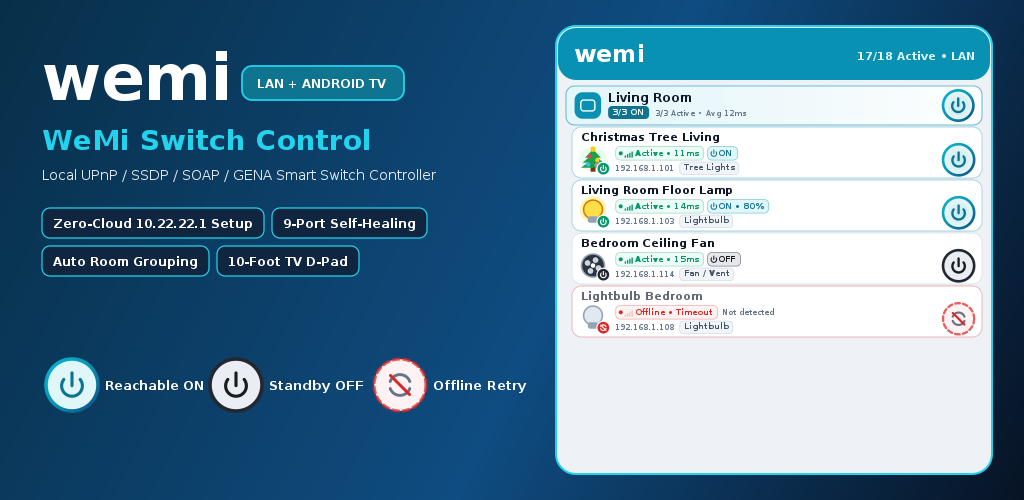
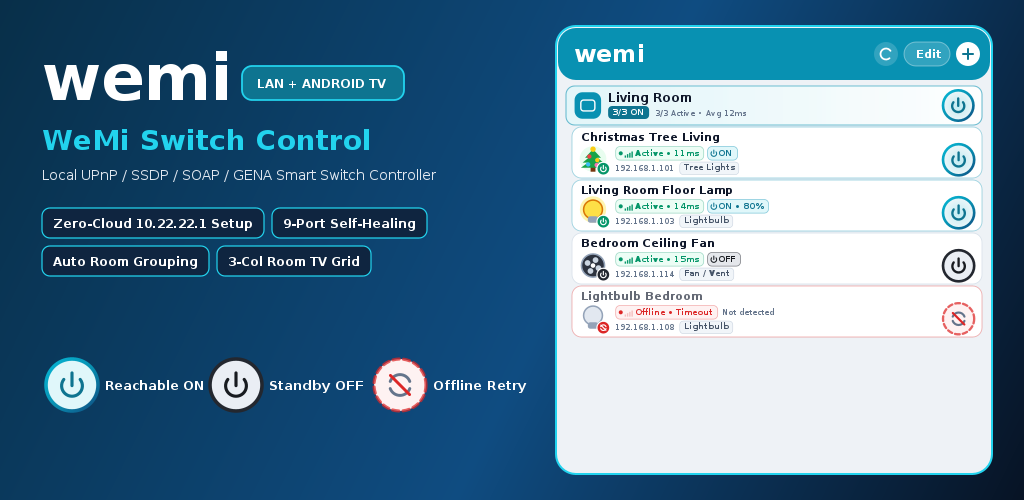
feat(ui): rename dimmer adjust mode to DIM -/+
Update UX design documentation to reflect the new DIM -/+ terminology for Android TV dimmer adjustment.

Changed region(s): [[0.8438, 0.06, 0.9688, 0.15], [0.2188, 0.48, 0.375, 0.57]]

diff --git a/app/src/main/java/org/suppressingfire/wemi/ui/components/TvCardsAndScenes.kt b/app/src/main/java/org/suppressingfire/wemi/ui/components/TvCardsAndScenes.kt
@@ -237,7 +237,7 @@ internal fun TvDeviceCard(
                         color = TvDimmerGold
                     ) {
                         Text(
-                            text = "DIM ◀/▶",
+                            text = "DIM -/+",
                             color = TvDeepBackground,
                             fontFamily = FontFamily.SansSerif,
                             fontWeight = FontWeight.ExtraBold,
@@ -479,7 +479,7 @@ internal fun TvDeviceCard(
                         if (isDimmingMode) {
                             Spacer(modifier = Modifier.height(3.dp))
                             Text(
-                                text = "◀ -10%  •  +10% ▶   (OK or Back = Done)",
+                                text = "Left: -10%  •  Right: +10%   (OK or Back = Done)",
                                 color = TvDimmerGold,
                                 fontFamily = FontFamily.SansSerif,
                                 fontWeight = FontWeight.Bold,

diff --git a/app/src/main/java/org/suppressingfire/wemi/ui/components/TvScreen.kt b/app/src/main/java/org/suppressingfire/wemi/ui/components/TvScreen.kt
@@ -258,7 +258,7 @@ fun TvDashboardScreen(
                             )
                             Text(
                                 text = if (isDimmingFocused) {
-                                    "${focusedDevice.name}: ${focusedDevice.brightness}% (◀/▶ Adjust • OK Done)"
+                                    "${focusedDevice.name}: ${focusedDevice.brightness}% (Left/Right Adjust • OK Done)"
                                 } else {
                                     "${focusedDevice.name} • OK Toggle"
                                 },

diff --git a/scripts/GeneratePlayStoreAssets.java b/scripts/GeneratePlayStoreAssets.java
@@ -1131,15 +1131,25 @@ public class GeneratePlayStoreAssets {
 
         // Focused Switch Status Pill
         String focusPillTxt = isDimmerMode
-            ? "Living Room Floor Lamp: 80% (◀/▶ Adjust • OK Done)"
-            : "Christmas Tree Living • OK Toggle";
+            ? "Floor Lamp: 80% (Left/Right Dim)"
+            : (isScenesMode ? "Movie 20% • OK Apply Scene" : "Christmas Tree Living • OK Toggle");
         Color focusPillBg = isDimmerMode ? new Color(0xFB, 0xBF, 0x24) : new Color(0x06, 0xB6, 0xD4, 52);
         Color focusPillBorder = isDimmerMode ? new Color(0xFB, 0xBF, 0x24) : new Color(0x22, 0xD3, 0xEE, 175);
         Color focusPillFg = isDimmerMode ? C_TV_BG_TOP : C_WHITE;
         g.setFont(fUi(11.5 * s, Font.BOLD));
-        int fpW = Math.min((int) (295 * s), g.getFontMetrics().stringWidth(focusPillTxt) + (int) (24 * s));
+        int fpW = Math.min((int) (215 * s), g.getFontMetrics().stringWidth(focusPillTxt) + (int) (22 * s));
         fillRoundRect(g, cx, y, fpW, barH, 9 * s, focusPillBg, focusPillBorder, 1.2 * s);
-        drawFittedString(g, focusPillTxt, cx + 12 * s, y + 24 * s, fpW - 20 * s, 11.5 * s, Font.BOLD, focusPillFg);
+        drawFittedString(g, focusPillTxt, cx + 11 * s, y + 24 * s, fpW - 18 * s, 11.5 * s, Font.BOLD, focusPillFg);
+        cx += fpW + 8 * s;
+
+        if (isDimmerMode) {
+            String doneTxt = "Done Dimming";
+            g.setFont(fUi(11.0 * s, Font.BOLD));
+            int dw = g.getFontMetrics().stringWidth(doneTxt) + (int) (18 * s);
+            fillRoundRect(g, cx, y + 3 * s, dw, barH - 6 * s, 8 * s, new Color(0xFB, 0xBF, 0x24), C_WHITE, 1.2 * s);
+            g.setColor(C_TV_BG_TOP);
+            g.drawString(doneTxt, (int) (cx + 9 * s), (int) (y + 23 * s));
+        }
 
         // Right-aligned Scene Chips + Rescan Button
         String[][] scenes = {
@@ -1167,21 +1177,36 @@ public class GeneratePlayStoreAssets {
         }
         y += (int) (barH + 12 * s);
 
+        int livingLampDim = isScenesMode ? 20 : 80;
+        String livingLampStat = "ON • " + livingLampDim + "% Brightness";
         // 2. Room Section 1: LIVING ROOM (Full-width header + 3 cards across)
         Object[][] livingRoomCards = {
             {"Christmas Tree Living", "Tree Lights", true, true, "ON • Active • 11ms", "192.168.1.101", null, !isDimmerMode && !isScenesMode, false},
-            {"Living Room Floor Lamp", "Lightbulb", true, true, "ON • 80% Brightness", "192.168.1.103", 80, isDimmerMode, isDimmerMode},
+            {"Living Room Floor Lamp", "Lightbulb", true, true, livingLampStat, "192.168.1.103", livingLampDim, isDimmerMode, isDimmerMode},
             {"Christmas Candle", "Lightbulb", true, true, "ON • Active • 13ms", "192.168.1.102", null, false, false}
         };
-        y = drawTvRoomSection(g, padX, y, w - padX * 2, "LIVING ROOM", "3/3 ON", "Dimmers: 80%", livingRoomCards, s);
+        y = drawTvRoomSection(g, padX, y, w - padX * 2, "LIVING ROOM", "3/3 ON", "Dimmers: " + livingLampDim + "%", livingRoomCards, s);
 
-        // 3. Room Section 2: BEDROOM & HALLWAY (Full-width header + 3 cards across)
+        int landingDim = isScenesMode ? 20 : 75;
+        String landingStat = "ON • " + landingDim + "% Brightness";
+        // 3. Room Section 2: BEDROOM & LANDING (Full-width header + 3 cards across)
         Object[][] bedroomCards = {
-            {"Lightbulb Landing", "Lightbulb", true, true, "ON • 75% Brightness", "192.168.1.105", 75, false, false},
+            {"Lightbulb Landing", "Lightbulb", true, true, landingStat, "192.168.1.105", landingDim, false, false},
             {"Bedroom Ceiling Fan", "Fan / Vent", false, true, "OFF • Active • 15ms", "192.168.1.114", null, false, false},
             {"Lightbulb Bedroom", "Lightbulb", false, false, "Disconnected • Press OK to Retry", "192.168.1.108", null, false, false}
         };
-        y = drawTvRoomSection(g, padX, y, w - padX * 2, "BEDROOM & LANDING", "1/3 ON", "Dimmers: 75%", bedroomCards, s);
+        y = drawTvRoomSection(g, padX, y, w - padX * 2, "BEDROOM & LANDING", "1/3 ON", "Dimmers: " + landingDim + "%", bedroomCards, s);
+
+        if (isScenesMode) {
+            String toastTxt = "TV Movie Mode: Dimmed 2 smart bulb(s) to 20%";
+            g.setFont(fUi(12 * s, Font.BOLD));
+            int tw = g.getFontMetrics().stringWidth(toastTxt) + (int) (32 * s);
+            double tx0 = (w - tw) / 2.0;
+            double ty0 = h - 38 * s;
+            fillRoundRect(g, tx0, ty0, tw, 28 * s, 9 * s, new Color(0x0F, 0x25, 0x40, 235), C_TV_CYAN, 1.5 * s);
+            g.setColor(C_TV_CYAN);
+            g.drawString(toastTxt, (int) (tx0 + 16 * s), (int) (ty0 + 19 * s));
+        }
 
         g.dispose();
         return img;
@@ -1257,7 +1282,7 @@ public class GeneratePlayStoreAssets {
             // Top line: Switch Name + Focus / Dimming badge
             double badgeW = 0;
             if (cDimming || cFocused) {
-                String bTxt = cDimming ? "DIM ◀/▶" : "FOCUSED • OK";
+                String bTxt = cDimming ? "DIM -/+" : "FOCUSED • OK";
                 Color bCol = cDimming ? new Color(0xFB, 0xBF, 0x24) : C_TV_CYAN;
                 g.setFont(fUi(9.8 * s, Font.BOLD));
                 badgeW = g.getFontMetrics().stringWidth(bTxt) + 14 * s;
@@ -1321,21 +1346,37 @@ public class GeneratePlayStoreAssets {
                 Color dimBoxBorder = cDimming ? new Color(0xFB, 0xBF, 0x24) : new Color(0x22, 0xD3, 0xEE, 95);
                 fillRoundRect(g, cx0 + 12 * s, boxY, cardW - 24 * s, boxH, 8 * s, dimBoxBg, dimBoxBorder, 1.0 * s);
 
+                // Left '-' circle button + progress bar + '%' + right '+' circle button
+                double btnR = 9.5 * s;
+                double btnCy = boxY + 18 * s;
+                double minusCx = cx0 + 28 * s;
+                double plusCx = cx0 + cardW - 28 * s;
+                Color btnBg = cDimming ? new Color(0xFB, 0xBF, 0x24) : new Color(255, 255, 255, 34);
+                Color btnFg = cDimming ? C_TV_BG_TOP : C_WHITE;
+
+                g.setColor(btnBg);
+                g.fill(new Ellipse2D.Double(minusCx - btnR, btnCy - btnR, btnR * 2, btnR * 2));
+                g.fill(new Ellipse2D.Double(plusCx - btnR, btnCy - btnR, btnR * 2, btnR * 2));
+                g.setColor(btnFg);
+                g.setFont(fUi(12 * s, Font.BOLD));
+                g.drawString("-", (int) (minusCx - 3 * s), (int) (btnCy + 4 * s));
+                g.drawString("+", (int) (plusCx - 4 * s), (int) (btnCy + 4 * s));
+
                 double byBar = boxY + 14 * s;
-                double bx0B = cx0 + 22 * s;
-                double bx1B = cx0 + cardW - 58 * s;
+                double bx0B = minusCx + btnR + 8 * s;
+                double bx1B = plusCx - btnR - 38 * s;
                 Color barCol = cDimming ? new Color(0xFB, 0xBF, 0x24) : C_TV_CYAN;
                 fillRoundRect(g, bx0B, byBar, bx1B - bx0B, 8 * s, 4 * s, new Color(255, 255, 255, 38), null, 0);
                 fillRoundRect(g, bx0B, byBar, (bx1B - bx0B) * (cDim / 100.0), 8 * s, 4 * s, barCol, null, 0);
 
                 g.setColor(barCol);
                 g.setFont(fUi(11 * s, Font.BOLD));
-                g.drawString(cDim + "%", (int) (bx1B + 8 * s), (int) (byBar + 8 * s));
+                g.drawString(cDim + "%", (int) (bx1B + 6 * s), (int) (byBar + 8 * s));
 
                 String dimHint = cDimming
-                    ? "◀ -10%  •  +10% ▶   (OK or Back = Done)"
+                    ? "Left: -10%  •  Right: +10%   (OK or Back = Done)"
                     : "Long-press OK or Play/Menu to adjust dimmer";
-                drawFittedString(g, dimHint, cx0 + 22 * s, boxY + 44 * s, cardW - 44 * s, 10.0 * s, Font.BOLD, cDimming ? new Color(0xFB, 0xBF, 0x24) : C_TV_SUBTEXT);
+                drawFittedString(g, dimHint, cx0 + 20 * s, boxY + 46 * s, cardW - 40 * s, 10.0 * s, Font.BOLD, cDimming ? new Color(0xFB, 0xBF, 0x24) : C_TV_SUBTEXT);
             }
         }
 
@@ -1398,7 +1439,7 @@ public class GeneratePlayStoreAssets {
         drawFittedString(g, "WeMi Switch Control", lx, 150 * s, maxLeftW, 28.0 * s, Font.BOLD, C_TV_CYAN);
         drawFittedString(g, "Local UPnP / SSDP / SOAP / GENA Smart Switch Controller", lx, 180 * s, maxLeftW, 14.0 * s, Font.PLAIN, new Color(226, 232, 240));
 
-        String[] pills = {"Zero-Cloud 10.22.22.1 Setup", "9-Port Self-Healing", "Auto Room Grouping", "10-Foot TV D-Pad"};
+        String[] pills = {"Zero-Cloud 10.22.22.1 Setup", "9-Port Self-Healing", "Auto Room Grouping", "3-Col Room TV Grid"};
         double py = 208 * s;
         double px = lx;
         for (String p : pills) {
@@ -1423,14 +1464,37 @@ public class GeneratePlayStoreAssets {
             drawFittedString(g, (String) ringStates[i][0], rcx + 33 * s, ry + 5 * s, 100 * s, 12.5 * s, Font.BOLD, C_WHITE);
         }
 
-        // Right: Live UI Card Preview matching actual app look & feel
+        // Right: Live UI Card Preview matching actual v23.0 single-row TopHeader look & feel
         int cx0 = (int) (556 * s), cy0 = (int) (26 * s), cx1 = (int) (992 * s), cy1 = (int) (474 * s);
         fillRoundRect(g, cx0, cy0, cx1 - cx0, cy1 - cy0, 20 * s, C_BG_GRAY, C_TV_CYAN, 2.0 * s);
         fillRoundRect(g, cx0 + 2, cy0 + 2, cx1 - cx0 - 4, 52 * s, 18 * s, C_TEAL_PRIMARY, null, 0);
         g.setColor(C_WHITE);
         g.setFont(fBrand(24 * s, Font.BOLD));
         g.drawString("wemi", (int) (cx0 + 18 * s), (int) (cy0 + 36 * s));
-        drawFittedString(g, "17/18 Active • LAN", cx1 - 135 * s, cy0 + 34 * s, 120 * s, 12.0 * s, Font.BOLD, C_CYAN_SOFT);
+
+        // Compact single-row header controls: Refresh circle + Edit pill + '+' circle
+        double hcy = cy0 + 28 * s;
+        double addCx = cx1 - 24 * s;
+        g.setColor(C_WHITE);
+        g.fill(new Ellipse2D.Double(addCx - 12 * s, hcy - 12 * s, 24 * s, 24 * s));
+        g.setColor(C_TEAL_DARK);
+        g.setStroke(new BasicStroke((float) (2.0 * s), BasicStroke.CAP_ROUND, BasicStroke.JOIN_ROUND));
+        g.draw(new Line2D.Double(addCx - 5 * s, hcy, addCx + 5 * s, hcy));
+        g.draw(new Line2D.Double(addCx, hcy - 5 * s, addCx, hcy + 5 * s));
+
+        double editW = 46 * s, editH = 24 * s;
+        double editX = addCx - 18 * s - editW;
+        fillRoundRect(g, editX, hcy - editH / 2.0, editW, editH, 12 * s, new Color(255, 255, 255, 42), new Color(255, 255, 255, 95), 1.0 * s);
+        g.setColor(C_WHITE);
+        g.setFont(fUi(11 * s, Font.BOLD));
+        g.drawString("Edit", (int) (editX + 12 * s), (int) (hcy + 4 * s));
+
+        double refCx = editX - 18 * s;
+        g.setColor(new Color(255, 255, 255, 42));
+        g.fill(new Ellipse2D.Double(refCx - 12 * s, hcy - 12 * s, 24 * s, 24 * s));
+        g.setColor(C_WHITE);
+        g.setStroke(new BasicStroke((float) (1.8 * s), BasicStroke.CAP_ROUND, BasicStroke.JOIN_ROUND));
+        g.draw(new Arc2D.Double(refCx - 5.5 * s, hcy - 5.5 * s, 11 * s, 11 * s, 35, 275, Arc2D.OPEN));
 
         int cyRow = cy0 + (int) (60 * s);
         cyRow = drawRoomGroupHeader(g, cx0 + (int) (10 * s), cyRow, cx1 - (int) (10 * s), "Living Room", 3, 3, "3/3 Active • Avg 12ms", true, false, 80, s * 0.78);
@@ -1480,7 +1544,7 @@ public class GeneratePlayStoreAssets {
 
         double sy = 388 * s;
         double sx = tx;
-        for (String chip : new String[]{"Movie Mode (20%)", "Holiday Lights ON", "Bedtime All OFF", "SSDP Local LAN"}) {
+        for (String chip : new String[]{"3-Col Room Grid", "Movie 20% Scene", "Dimmer Mode", "Local LAN UPnP"}) {
             g.setFont(fUi(16 * s, Font.BOLD));
             int cw = g.getFontMetrics().stringWidth(chip) + (int) (30 * s);
             if (sx + cw > w - 36 * s) break;

diff --git a/IMPLEMENTED.md b/IMPLEMENTED.md
@@ -36,8 +36,9 @@ Related documentation:
 
 | Landed (PST) | Version / Commit | Feature or Improvement | Primary Files |
 | :--- | :--- | :--- | :--- |
+| **2026-11-11 06:55 PST** | `v23.0` | **Refreshed All 21 `v23.0` Google Play Store & In-App Visual Assets (`scripts/GeneratePlayStoreAssets.java`, `play_store_assets/`, `res/drawable*`) and `STORE_LISTING.md` for the 3-Column Room-Grouped Android TV UI (`DIM -/+`), Compact Single-Row `TopHeader` Feature Graphic Preview & `31/31` Test Verification** | [`scripts/GeneratePlayStoreAssets.java`](scripts/GeneratePlayStoreAssets.java), [`play_store_assets/STORE_LISTING.md`](play_store_assets/STORE_LISTING.md), [`TvCardsAndScenes.kt`](app/src/main/java/org/suppressingfire/wemi/ui/components/TvCardsAndScenes.kt), [`TvScreen.kt`](app/src/main/java/org/suppressingfire/wemi/ui/components/TvScreen.kt), [`UX_DESIGN.md`](UX_DESIGN.md), [`UX_DESIGN_AND_EXPERIENCE.md`](UX_DESIGN_AND_EXPERIENCE.md) |
 | **2026-11-11 06:35 PST** | `v23.0` | **Hardened `LanHttpClient.readUntilEof` for Delayed-`FIN` Embedded Switch Responses, Added Loopback HTTP Wire-Framing Unit Test (`31/31` Passing), Restored `100755` (`+x`) Script Permissions & Synced `v23.0` Agent Docs/Skills** | [`LanHttpClient.kt`](app/src/main/java/org/suppressingfire/wemi/network/LanHttpClient.kt), [`SoapAndSelfHealingTest.kt`](app/src/test/java/org/suppressingfire/wemi/SoapAndSelfHealingTest.kt), [`AGENTS.md`](AGENTS.md), [`UPCOMING_FEATURES.md`](UPCOMING_FEATURES.md), [`RELEASE_PROCESS.md`](RELEASE_PROCESS.md), [`scripts/advance_release_turn.sh`](scripts/advance_release_turn.sh), [`.agents/skills/wemi-light-control/SKILL.md`](.agents/skills/wemi-light-control/SKILL.md) |
-| **2026-11-10 20:58 PST** | `v23.0` | **Redesigned Android TV (`wemi TV`) 3-Column Room-Grouped Dashboard (`TvScreen.kt`, `TvCardsAndScenes.kt`, `MainActivity.kt`): Single Compact Top Bar, Full-Height 3-Column Room-Grouped Switch Grid (`TvRoomSectionHeader`), Unmistakable 10-Foot Cursor Focus (`FOCUSED • OK`), Non-Interfering Dimmer Adjust Mode (`DIM ◀/▶`), and Non-Blocking LAN Rescan (`30/30` Passing)** | [`TvScreen.kt`](app/src/main/java/org/suppressingfire/wemi/ui/components/TvScreen.kt), [`TvCardsAndScenes.kt`](app/src/main/java/org/suppressingfire/wemi/ui/components/TvCardsAndScenes.kt), [`MainActivity.kt`](app/src/main/java/org/suppressingfire/wemi/MainActivity.kt), [`ExampleRobolectricTest.kt`](app/src/test/java/org/suppressingfire/wemi/ExampleRobolectricTest.kt), [`scripts/GeneratePlayStoreAssets.java`](scripts/GeneratePlayStoreAssets.java), [`docs/user-guide/more-and-tv-mode.md`](docs/user-guide/more-and-tv-mode.md), [`docs/user-guide/release-notes.md`](docs/user-guide/release-notes.md) |
+| **2026-11-10 20:58 PST** | `v23.0` | **Redesigned Android TV (`wemi TV`) 3-Column Room-Grouped Dashboard (`TvScreen.kt`, `TvCardsAndScenes.kt`, `MainActivity.kt`): Single Compact Top Bar, Full-Height 3-Column Room-Grouped Switch Grid (`TvRoomSectionHeader`), Unmistakable 10-Foot Cursor Focus (`FOCUSED • OK`), Non-Interfering Dimmer Adjust Mode (`DIM -/+`), and Non-Blocking LAN Rescan (`30/30` Passing)** | [`TvScreen.kt`](app/src/main/java/org/suppressingfire/wemi/ui/components/TvScreen.kt), [`TvCardsAndScenes.kt`](app/src/main/java/org/suppressingfire/wemi/ui/components/TvCardsAndScenes.kt), [`MainActivity.kt`](app/src/main/java/org/suppressingfire/wemi/MainActivity.kt), [`ExampleRobolectricTest.kt`](app/src/test/java/org/suppressingfire/wemi/ExampleRobolectricTest.kt), [`scripts/GeneratePlayStoreAssets.java`](scripts/GeneratePlayStoreAssets.java), [`docs/user-guide/more-and-tv-mode.md`](docs/user-guide/more-and-tv-mode.md), [`docs/user-guide/release-notes.md`](docs/user-guide/release-notes.md) |
 | **2026-11-10 20:26 PST** | `v23.0` | **Compact Single-Row `TopHeader` (`HeaderAndNav.kt`): Moved `Refresh` & `Edit` Buttons Down Alongside the `wemi` Wordmark & `+` Button and Removed Redundant `"LAN SWITCHES"` Badge to Maximize Vertical Screen Space** | [`HeaderAndNav.kt`](app/src/main/java/org/suppressingfire/wemi/ui/components/HeaderAndNav.kt), [`scripts/GeneratePlayStoreAssets.java`](scripts/GeneratePlayStoreAssets.java), [`UX_DESIGN.md`](UX_DESIGN.md), [`docs/user-guide/release-notes.md`](docs/user-guide/release-notes.md), [`play_store_assets/RELEASE_NOTES.txt`](play_store_assets/RELEASE_NOTES.txt) |
 | **2026-11-10 13:19 PST** | `v22.0` | **Mandatory Agent Commit Description Attribution Skill (`agent-commit-attribution`), Helper & Hook Validator Scripts (`commit_as_agent.sh`, `validate_commit_msg.sh`) & Attributed Release State-Machine Commits (`scripts/advance_release_turn.sh`)** | [`.agents/skills/agent-commit-attribution/SKILL.md`](.agents/skills/agent-commit-attribution/SKILL.md), [`.agents/skills/agent-commit-attribution/scripts/commit_as_agent.sh`](.agents/skills/agent-commit-attribution/scripts/commit_as_agent.sh), [`.agents/skills/agent-commit-attribution/scripts/validate_commit_msg.sh`](.agents/skills/agent-commit-attribution/scripts/validate_commit_msg.sh), [`scripts/advance_release_turn.sh`](scripts/advance_release_turn.sh), [`AGENTS.md`](AGENTS.md), [`RELEASE_PROCESS.md`](RELEASE_PROCESS.md), [`.agents/skills/multi-agent-git-sync/SKILL.md`](.agents/skills/multi-agent-git-sync/SKILL.md) |
 | **2026-11-10 13:06 PST** | `v22.0` (`19247b4`) | **Multi-Agent Anti-Stomp Sync: Removed Orphaned `res/font/*.ttf` Files Left by AI Studio Sync, Restored `97d422e` Minimal-Dependency & Zero-`OkHttp`/`pywemo` Governance Gates (`LicenseAndBrandGovernanceTest.kt`), Updated `LICENSE_GOVERNANCE.md` & `wemi-license-governance` for Pure `MIT` + `Apache-2.0` Runtime, and Restored `+x` Script Permissions (`30/30` Passing)** | [`LicenseAndBrandGovernanceTest.kt`](app/src/test/java/org/suppressingfire/wemi/LicenseAndBrandGovernanceTest.kt), [`MoreScreen.kt`](app/src/main/java/org/suppressingfire/wemi/ui/screens/MoreScreen.kt), [`LICENSE_GOVERNANCE.md`](LICENSE_GOVERNANCE.md), [`.agents/skills/wemi-license-governance/SKILL.md`](.agents/skills/wemi-license-governance/SKILL.md), [`docs/user-guide/more-and-tv-mode.md`](docs/user-guide/more-and-tv-mode.md), [`docs/user-guide/release-notes.md`](docs/user-guide/release-notes.md), [`gradlew`](gradlew), [`scripts/advance_release_turn.sh`](scripts/advance_release_turn.sh), [`scripts/await_release_turn.sh`](scripts/await_release_turn.sh) |
@@ -95,6 +96,13 @@ Related documentation:
 
 ## 2. Detailed Change Log (Newest to Oldest)
 
+### [2026-11-11 06:55 PST] — Refreshed All 21 `v23.0` Google Play Store & In-App Visual Assets (`scripts/GeneratePlayStoreAssets.java`, `play_store_assets/`, `res/drawable*`) & `STORE_LISTING.md` (`v23.0`)
+- **Refreshed Android TV, Phone, Tablet, Feature Graphic & TV Banner Assets ([`scripts/GeneratePlayStoreAssets.java`](scripts/GeneratePlayStoreAssets.java), [`play_store_assets/`](play_store_assets/))**:
+  - Updated `renderTvScreen` & `drawTvRoomSection` in `GeneratePlayStoreAssets.java` (and `TvCardsAndScenes.kt` / `TvScreen.kt`) to use `"DIM -/+"` with `-` / `+` circular dimmer buttons, `"Left: -10%  •  Right: +10%   (OK or Back = Done)"`, and the top-bar `"Done Dimming"` chip so headless Linux Java `SansSerif` renders zero fallback triangles.
+  - Updated `renderFeatureGraphic` (`feature_graphic_1024x500.png` & `img_wemi_teal_feature_1794086803999.jpg`) so the live preview card header shows the `v23.0` compact single-row `TopHeader` (`wemi` on left; `Refresh`, `Edit`, and `+` on right), and updated `play_store_assets/STORE_LISTING.md` to `v23.0` (`versionCode = 23`).
+
+---
+
 ### [2026-11-11 06:35 PST] — Hardened `LanHttpClient.readUntilEof` for Delayed-`FIN` Embedded Switch Responses, Loopback HTTP Wire-Framing Test (`31/31` Passing) & `v23.0` Sync (`v23.0`)
 - **`LanHttpClient` Delayed-`FIN` EOF Recovery & `TCP_NODELAY` ([`LanHttpClient.kt`](app/src/main/java/org/suppressingfire/wemi/network/LanHttpClient.kt), [`SoapAndSelfHealingTest.kt`](app/src/test/java/org/suppressingfire/wemi/SoapAndSelfHealingTest.kt))**:
   - Enabled `socket.tcpNoDelay = true` and hardened `readUntilEof` so when an embedded OpenWrt/RTOS HTTP server omits both `Content-Length` and `Transfer-Encoding: chunked` and holds the TCP connection open past `readTimeoutMs` without sending `FIN`, `readUntilEof` returns the XML bytes already buffered in `out` instead of throwing `SocketTimeoutException` and discarding the payload.
@@ -110,7 +118,7 @@ Related documentation:
   - Grouped switches by room inside the 3-column grid using full-width focusable `TvRoomSectionHeader` (`span = { GridItemSpan(maxLineSpan) }`, `testTag("tv_room_header_$roomName")`, with `"Unassigned"` sorted last) that shows `"$onCount/${controllable.size} ON"`, room dimmer brightness summary, and one-click Room Master power toggling on `OK`.
 - **Unmistakable 10-Foot Cursor Focus & Non-Interfering Dimmer Adjust Mode ([`TvCardsAndScenes.kt`](app/src/main/java/org/suppressingfire/wemi/ui/components/TvCardsAndScenes.kt), [`MainActivity.kt`](app/src/main/java/org/suppressingfire/wemi/MainActivity.kt), [`ExampleRobolectricTest.kt`](app/src/test/java/org/suppressingfire/wemi/ExampleRobolectricTest.kt))**:
   - Automatically requests hardware D-Pad focus (`FocusRequester`) on the first switch card at launch and highlights the focused card with a `3.5.dp` Electric Cyan border (`#22D3EE`), bright illuminated surface (`#133B66`), `1.022f` scale lift, `12.dp` elevation, and a top-right `"FOCUSED • OK"` badge.
-  - Stopped intercepting `D-Pad Left / Right` on dimmer cards during normal navigation so 3-column D-Pad navigation between cards is never blocked. Added an explicit **Dimmer Adjust Mode** (activated via `Play/Pause`, `Menu`, Long-Press `OK`, or clicking the dimmer strip `tv_card_dim_mode_${device.id}`) that turns the card border Gold (`#FBBF24` with `"DIM ◀/▶"`), steps brightness `-10%` / `+10%` on `◀` / `▶`, and exits cleanly on `OK` or `Back`.
+  - Stopped intercepting `D-Pad Left / Right` on dimmer cards during normal navigation so 3-column D-Pad navigation between cards is never blocked. Added an explicit **Dimmer Adjust Mode** (activated via `Play/Pause`, `Menu`, Long-Press `OK`, or clicking the dimmer strip `tv_card_dim_mode_${device.id}`) that turns the card border Gold (`#FBBF24` with `"DIM -/+"`), steps brightness `-10%` / `+10%` on `Left` / `Right`, and exits cleanly on `OK` or `Back`.
   - Wired `onScanSsdpClick` on TV to `viewModel.refreshDevicesFromNetwork()` (non-blocking background refresh with bottom toast) and guarded touch-only popup modals with `if (!isTvMode)` in `MainActivity.kt` so modal popups never trap TV remote navigation.
 
 ---

diff --git a/play_store_assets/STORE_LISTING.md b/play_store_assets/STORE_LISTING.md
@@ -18,7 +18,7 @@ WeMi Switch Control brings reliable, instant local-network control back to Belki
 WeMi Switch Control communicates directly with your switches over your home Wi-Fi network using standard UPnP / SSDP multicast discovery and local SOAP HTTP commands—no cloud account, external server, or subscription required.
 
 ### What's New in Version 23.0
-- **Redesigned Android TV (`wemi TV`) 3-Column Room-Grouped Dashboard:** Full-height 3-column switch grid organized by Room Section Headers (`LIVING ROOM`, `BEDROOM`, `KITCHEN`) with unmistakable 10-foot Electric Cyan cursor focus (`FOCUSED • OK`), non-interfering `DIM ◀/▶` brightness mode, and non-blocking LAN rescan.
+- **Redesigned Android TV (`wemi TV`) 3-Column Room-Grouped Dashboard:** Full-height 3-column switch grid organized by Room Section Headers (`LIVING ROOM`, `BEDROOM`, `KITCHEN`) with unmistakable 10-foot Electric Cyan cursor focus (`FOCUSED • OK`), non-interfering `DIM -/+` brightness mode, and non-blocking LAN rescan.
 - **Compact Single-Row Phone & Tablet Header:** Moved `Refresh` and `Edit` alongside the `wemi` wordmark and `+` button to maximize vertical screen space for room and switch cards.
 - **Streamlined First-Party UPnP/HTTP Engine & `MIT` + `Apache-2.0` Footprint:** Replaced external HTTP libraries and bundled font files with a zero-dependency local-LAN HTTP/1.1 & UPnP GENA client (`LanHttpClient`) over JDK `SocketFactory` and platform `FontFamily.SansSerif` typography—keeping runtime dependencies strictly to AndroidX & Kotlin (`Apache-2.0`) under the `MIT` License (`includeInApk = false`).
 - **Dedicated Native Phone/Tablet & Android TV Layouts:** Automatically runs the touch-first dashboard on phones/tablets and the 10-foot D-Pad dashboard (`wemi TV`) on Android TV / Google TV (`UI_MODE_TYPE_TELEVISION`) without manual Phone/TV mode switch buttons.
@@ -28,7 +28,7 @@ WeMi Switch Control communicates directly with your switches over your home Wi-F
 
 ### Key Features
 - **Instant One-Tap Cyan Power Ring Toggles:** Turn individual switches or entire room groups ON or OFF directly over your local Wi-Fi network.
-- **Android TV D-Pad & Remote Shortcuts:** Includes native Leanback launcher support (`LEANBACK_LAUNCHER`), high-contrast 10-foot switch cards with glowing cyan focus rings, and an interactive on-screen TV remote D-Pad bar.
+- **Android TV 3-Column Room Grid & Dimmer Adjust Mode:** Includes native Leanback launcher support (`LEANBACK_LAUNCHER`), room-grouped 3-column switch cards with glowing cyan `"FOCUSED • OK"` focus rings, focusable room master headers, and non-interfering `DIM -/+` brightness control.
 - **Inline Brightness & Dimmer Drawer:** Smoothly dim smart bulbs and dimmer switches from 1% to 100%, or jump to quick brightness presets (21%, 50%, 75%, 100%).
 - **Interactive SSDP Local Wi-Fi Scanner:** Broadcast `M-SEARCH` packets over `239.255.255.250:1900` across `urn:Belkin:service:basicevent:1`, `urn:Belkin:device:**`, and `upnp:rootdevice` to automatically discover switches, inspect their `/setup.xml` descriptors, and infer room assignments.
 - **Motion Sensor Status & Triggers:** View the latest motion detection timestamps and link motion events to turn on bedroom or hallway lights automatically.
@@ -42,9 +42,9 @@ WeMi Switch Control communicates directly with your switches over your home Wi-F
    - `tv/tv_banner_1280x720.png`: 1280 × 720 px, 24-bit PNG (Google Play Console Android TV Banner upload).
    - `tv/tv_banner_320x180.png`: 320 × 180 px, 24-bit PNG (also bundled in APK at `res/drawable-xhdpi/tv_banner.png`).
 4. **Android TV 16:9 Screenshots (`screenshots/android_tv/` — 1920 × 1080 px, 16:9 PNG):**
-   - `tv_1_room_groups_and_remote_focus.png` (10-Foot Room Groups & Glowing Cyan D-Pad Remote Focus)
-   - `tv_2_dimmer_and_ssdp_discovery.png` (TV Remote Left/Right Dimmer Bar & SSDP Multicast Discovery)
-   - `tv_3_living_room_scenes_and_rules.png` (TV Remote Quick Scenes — Movie Mode 20%, Holiday Lights ON, Bedtime All OFF & Local Rules)
+   - `tv_1_room_groups_and_remote_focus.png` (3-Column Room-Grouped TV Grid & Glowing Cyan `"FOCUSED • OK"` D-Pad Remote Focus)
+   - `tv_2_dimmer_and_ssdp_discovery.png` (Non-Interfering `"DIM -/+"` Dimmer Adjust Mode & Background LAN Rescan)
+   - `tv_3_living_room_scenes_and_rules.png` (TV Remote Quick Scenes — Movie Mode 20%, Holiday Lights ON, All OFF & Room Master Toggle)
 5. **Phone Screenshots (`screenshots/phone/` — 1080 × 1920 px, 9:16 PNG):**
    - `phone_1_devices_and_power_rings.png` (Room Grouping System & Master Room Power Rings)
    - `phone_2_ssdp_network_scanner.png` (Pull-to-Refresh & SSDP Network Discovery Scanner)

diff --git a/UX_DESIGN_AND_EXPERIENCE.md b/UX_DESIGN_AND_EXPERIENCE.md
@@ -1,6 +1,6 @@
 # WeMi Light Control — Android & Android TV UX Design, Behavioral Model & Critical User Journeys (`UX_DESIGN_AND_EXPERIENCE.md`)
 
-**Repository**: `MichaelRHead/WeMi-light-control` (`org.suppressingfire.wemi` / `com.aistudio.wemiswitch.kxpqzr`, `v22.0`)  
+**Repository**: `MichaelRHead/WeMi-light-control` (`org.suppressingfire.wemi` / `com.aistudio.wemiswitch.kxpqzr`, `v23.0`)  
 **Document & Skill Owner**: **Google AI Studio Agent (`AI Studio Build`) — EXCLUSIVE OWNER**  
 **Companion Agent Skill**: [`.agents/skills/wemi-ux-design-and-experience/SKILL.md`](.agents/skills/wemi-ux-design-and-experience/SKILL.md)
 
@@ -16,7 +16,7 @@ Related documentation:
 - [`DISCOVERY_AND_ROOM_GROUPING.md`](DISCOVERY_AND_ROOM_GROUPING.md) — Internal Device Discovery Logic, Self-Healing Identity Resolution & Automatic Room Grouping Architecture *(Owned Exclusively by the Antigravity Device Discovery & Room Grouping Agent — read-only for the Google AI Studio Agent)*
 - [`LICENSE_GOVERNANCE.md`](LICENSE_GOVERNANCE.md) — Open-Source MIT License Parity, Permissive Dependency Policy & Brand/Trademark Governance *(Owned Exclusively by the Antigravity License & Brand Governance Agent — read-only for the Google AI Studio Agent)*
 - [`AGENTS.md`](AGENTS.md) — Architecture & Agent Guide
-- [`IMPLEMENTED.md`](IMPLEMENTED.md) — Reverse-Chronological Change Log (`v1.0` → `v22.0`)
+- [`IMPLEMENTED.md`](IMPLEMENTED.md) — Reverse-Chronological Change Log (`v1.0` → `v23.0`)
 - [`UPCOMING_FEATURES.md`](UPCOMING_FEATURES.md) — Upcoming Features & Next-Iteration Roadmap
 - [`USER_GUIDE.md`](USER_GUIDE.md) — Modular User Guide Index & Feature Guides ([`docs/user-guide/`](docs/user-guide/))
 
@@ -173,5 +173,5 @@ Every screen and component in **WeMi Light Control** must obey these five layout
    - Automatically launches `TvDashboardScreen` (`tv_dashboard_screen`) with a single compact top header bar (`wemi TV`, active switch counter, focused switch status pill `tv_remote_dpad_ok`, quick scene chips `Movie 20%`, `Holiday ON`, `All OFF`, and `Rescan`) so over 90% of vertical screen height showcases the **3-Column Room-Grouped Switch Grid (`tv_device_grid`)**.
    - **Room Section Headers (`TvRoomSectionHeader`, `tv_room_header_<RoomName>`)**: Group switches by room across all 3 columns (`span = { GridItemSpan(maxLineSpan) }`, with `"Unassigned"` sorted last) and allow one-click Room Master toggling when pressed with `OK`.
    - **Unmistakable 10-Foot Cursor Focus**: Initial focus (`FocusRequester`) automatically lands on the first switch card, rendering a `3.5.dp` Electric Cyan border (`#22D3EE`), bright illuminated surface (`#133B66`), `1.022f` scale lift, and a **`FOCUSED • OK`** badge.
-   - **Predictable 3-Column Navigation & Non-Interfering Dimmer Adjust Mode**: In normal navigation mode, `D-Pad Up / Down / Left / Right` always moves freely between the 3 columns of switch cards and pressing `OK` toggles any card `ON` / `OFF`. Pressing `Play/Pause`, `Menu`, Long-Press `OK`, or clicking a dimmer card's dimmer strip (`tv_card_dim_mode_<id>`) enters a Gold (`#FBBF24`) **Dimmer Adjust Mode (`DIM ◀/▶`)** where `◀ / ▶` steps brightness `-10%` / `+10%` and pressing `OK` or `Back` exits back to normal card navigation.
+   - **Predictable 3-Column Navigation & Non-Interfering Dimmer Adjust Mode**: In normal navigation mode, `D-Pad Up / Down / Left / Right` always moves freely between the 3 columns of switch cards and pressing `OK` toggles any card `ON` / `OFF`. Pressing `Play/Pause`, `Menu`, Long-Press `OK`, or clicking a dimmer card's dimmer strip (`tv_card_dim_mode_<id>`) enters a Gold (`#FBBF24`) **Dimmer Adjust Mode (`DIM -/+`)** where `Left / Right` steps brightness `-10%` / `+10%` and pressing `OK` or `Back` exits back to normal card navigation.
 

diff --git a/USER_GUIDE.md b/USER_GUIDE.md
@@ -21,7 +21,7 @@ Each guide below explains one major area of the app in detail:
 | **5** | **[Editing, Renaming, Reordering & Adding Switches](docs/user-guide/editing-and-managing-devices.md)** | How to use **Edit Mode** (`Edit` / `Done`) to reorder (`↑`/`↓`), edit (`✎`), or remove (`🗑`) switches; how the **Add / Edit Device** dialog previews auto-classified icons (`Tree Lights`, `Fan`, `Light`) live as you type; how **Sync Name to Switch Hardware** updates `<friendlyName>` on the physical switch; and how manual IP entry automatically probes all 9 UPnP ports. |
 | **6** | **[Multi-Home Wi-Fi Profiles & Switching](docs/user-guide/wifi-homes.md)** | How the **Wi-Fi Home Selector Bar** manages switches across multiple locations (e.g., `My Home`, `Lake Cabin`, `Studio Office`), detects your local `/24` subnet without requiring Android Location permissions, filters out hardware setup soft-AP SSIDs from `GetMetaInfo`, reconnects all remembered switches in one tap, and resets remembered homes/switches/rooms via the **`Reset`** chip. |
 | **7** | **[Rules, Schedules & Auto-Off Timers](docs/user-guide/rules-and-timers.md)** | How to create and manage local **Schedule Rules** (`Daily at 6:30 PM`, `Sunset`, `Sunrise`), **Auto-Off Timers** (with live `Auto-Off MM:SS` countdown badges on the switch row), and **Motion Trigger Rules** on the **Rules** tab, plus testing rules immediately with the `▶` button. |
-| **8** | **[Master Controls, Diagnostics, Demo Mode & Android TV](docs/user-guide/more-and-tv-mode.md)** | How to use the **More** tab (`All Switches ON` / `All Switches OFF`, **Real LAN Mode** vs. **Demo Showroom Mode**, one-tap **Reset Homes, Discovered Switches & Rooms**, `wemi` header wordmark, **Live UPnP / SOAP Packet Log Inspector** with **`Save/Share Log`**, and the **Open Source License & Third-Party Notices** card) and how to control your home from the couch with the **3-Column Room-Grouped Android TV Dashboard (`wemi TV`)**, `FOCUSED • OK` cursor, and `DIM ◀/▶` mode. |
+| **8** | **[Master Controls, Diagnostics, Demo Mode & Android TV](docs/user-guide/more-and-tv-mode.md)** | How to use the **More** tab (`All Switches ON` / `All Switches OFF`, **Real LAN Mode** vs. **Demo Showroom Mode**, one-tap **Reset Homes, Discovered Switches & Rooms**, `wemi` header wordmark, **Live UPnP / SOAP Packet Log Inspector** with **`Save/Share Log`**, and the **Open Source License & Third-Party Notices** card) and how to control your home from the couch with the **3-Column Room-Grouped Android TV Dashboard (`wemi TV`)**, `FOCUSED • OK` cursor, and `DIM -/+` mode. |
 | **9** | **[Troubleshooting, Screenshots & Sharing Telemetry Logs](docs/user-guide/telemetry-and-troubleshooting.md)** | Step-by-step instructions for capturing on-screen diagnostic screenshots (**`SETUP DEBUG DETAILS (SCREENSHOT)`**, **`UPnP / SOAP Packet Log`**, and **Inline Switch Diagnostics (`ⓘ`)**), exporting or sharing **`wemi-telemetry-latest.txt`** via **`Save/Share`** / **`Copy`**, and decoding `[NET]`, `[PROBE]`, `[FLAGS]`, `[TARGET AP]`, and `[STEP 1..6]` setup status codes *(Owned Exclusively by the Antigravity Debugging & Support Agent)*. |
 | **10** | **[Release Notes & Version History (`v1.0` → `v23.0`)](docs/user-guide/release-notes.md)** | High-level, non-technical summary of the major user-facing features, visual improvements, and reliability upgrades introduced in each Google Play Store release from **`v23.0`** back to **`v1.0`**. |
 

diff --git a/UX_DESIGN.md b/UX_DESIGN.md
@@ -93,7 +93,7 @@ When running on an Android TV (`Configuration.UI_MODE_TYPE_TELEVISION`), the app
   - Focused cards render a high-contrast `3.5.dp` Electric Cyan border (`#22D3EE`), bright illuminated surface (`#133B66`), `1.022f` scale lift, `12.dp` shadow elevation, and an explicit top-right **`FOCUSED • OK`** badge.
 - **Predictable 3-Column Navigation & Non-Interfering Dimmer Adjust Mode**:
   - **Normal Navigation Mode**: `D-Pad Up / Down / Left / Right` **always** navigates freely between the 3 columns of switch and dimmer cards (never hijacking `Left / Right` on dimmers). Pressing `OK / Select / Enter` on any card immediately toggles power `ON` / `OFF` (or triggers a 9-port reconnect if offline).
-  - **Dimmer Adjust Mode (`isDimmingMode`)**: Activated on a focused dimmer card via `KEYCODE_MEDIA_PLAY_PAUSE`, `KEYCODE_MENU`, Long-Press `OK`, or clicking the dimmer strip (`tv_card_dim_mode_<id>`). While active, the card border turns glowing Gold (`#FBBF24`) with a **`DIM ◀/▶`** badge, capturing `Left / Right` (`-10%` / `+10%`) and `Up / Down` (`+20%` / `-20%`) until the user presses `OK` or `Back` to exit back to normal grid navigation.
+  - **Dimmer Adjust Mode (`isDimmingMode`)**: Activated on a focused dimmer card via `KEYCODE_MEDIA_PLAY_PAUSE`, `KEYCODE_MENU`, Long-Press `OK`, or clicking the dimmer strip (`tv_card_dim_mode_<id>`). While active, the card border turns glowing Gold (`#FBBF24`) with a **`DIM -/+`** badge, capturing `Left / Right` (`-10%` / `+10%`) and `Up / Down` (`+20%` / `-20%`) until the user presses `OK` or `Back` to exit back to normal grid navigation.
 - **Zero Blocking Popup Modals on TV**: Clicking `Rescan` (`tv_scan_button`) runs a non-blocking background SSDP + state refresh with a bottom toast, and touch-only modal sheets are guarded by `if (!isTvMode)` so popups never trap TV remote focus.
 
 ---

diff --git a/docs/user-guide/more-and-tv-mode.md b/docs/user-guide/more-and-tv-mode.md
@@ -68,7 +68,7 @@ At the bottom of the **More** tab, the **Open Source License** card (`open_sourc
    - The focused card stands out across the living room with a `3.5.dp` Electric Cyan border (`#22D3EE`), bright illuminated card surface (`#133B66`), subtle scale lift (`1.022x`), and a **`FOCUSED • OK`** badge in the top-right corner.
 3. **Predictable Card Navigation & Non-Interfering Dimmer Adjust Mode**:
    - **Normal Navigation Mode**: **D-Pad `Up / Down / Left / Right`** always moves freely across the 3 columns of switch and dimmer cards without getting stuck on dimmers. Pressing **`OK / Select`** on any card (switch or dimmer) immediately toggles power **ON** or **OFF** (or triggers a 9-port reconnect if offline).
-   - **Dimmer Adjust Mode**: To adjust a dimmer's brightness, press **`Play/Pause`**, **`Menu`**, or **Long-Press `OK`** on a focused dimmer card (or click its dimmer strip). The card border turns glowing Gold (`#FBBF24`) with a **`DIM ◀/▶`** badge: use **`◀ Left` / `▶ Right`** to step brightness `-10%` / `+10%` (or **`▲ Up` / `▼ Down`** for `±20%`), then press **`OK`** or **`Back`** to finish and return to normal card navigation.
+   - **Dimmer Adjust Mode**: To adjust a dimmer's brightness, press **`Play/Pause`**, **`Menu`**, or **Long-Press `OK`** on a focused dimmer card (or click its dimmer strip). The card border turns glowing Gold (`#FBBF24`) with a **`DIM -/+`** badge: use **`Left` / `Right`** to step brightness `-10%` / `+10%` (or **`Up` / `Down`** for `±20%`), then press **`OK`** or **`Back`** to finish and return to normal card navigation.
 4. **1-Click TV Lighting Scenes & Non-Blocking LAN Rescan**:
    - **`Movie 20%`**: Dims Living Room lights to a soft `20%` glow and turns off bright overhead switches.
    - **`Holiday ON`**: Turns all holiday/tree switches **ON**.

diff --git a/.agents/skills/wemi-ux-design-and-experience/SKILL.md b/.agents/skills/wemi-ux-design-and-experience/SKILL.md
@@ -34,7 +34,7 @@ description: "EXCLUSIVE TO THE GOOGLE AI STUDIO AGENT (Read-Only for All Other A
 
 4. **Native Hardware Form-Factor Routing (Phone/Tablet vs. Android TV)**:
    - Phone/tablet (`Scaffold` with compact single-row `TopHeader` and `BottomNavigationBar`) and Android TV (`TvDashboardScreen` under `Configuration.UI_MODE_TYPE_TELEVISION`) are strictly native to their hardware form factor and interaction model. Do not add manual Phone/TV mode switch buttons to either layout.
-   - On Android TV (`wemi TV`), use a single compact top header row paired with a full-height **3-Column Room-Grouped Switch Grid (`GridCells.Fixed(3)`)** with full-span `TvRoomSectionHeader` headers (`tv_room_header_<Room>`), unmistakable 10-foot cursor focus (`3.5.dp` `#22D3EE` border, `#133B66` surface, `FOCUSED • OK` badge), and a dedicated **Dimmer Adjust Mode (`DIM ◀/▶`)** so `D-Pad Left / Right` never gets trapped on dimmer cards during normal 3-column navigation.
+   - On Android TV (`wemi TV`), use a single compact top header row paired with a full-height **3-Column Room-Grouped Switch Grid (`GridCells.Fixed(3)`)** with full-span `TvRoomSectionHeader` headers (`tv_room_header_<Room>`), unmistakable 10-foot cursor focus (`3.5.dp` `#22D3EE` border, `#133B66` surface, `FOCUSED • OK` badge), and a dedicated **Dimmer Adjust Mode (`DIM -/+`)** so `D-Pad Left / Right` never gets trapped on dimmer cards during normal 3-column navigation.
 
 ---
 
